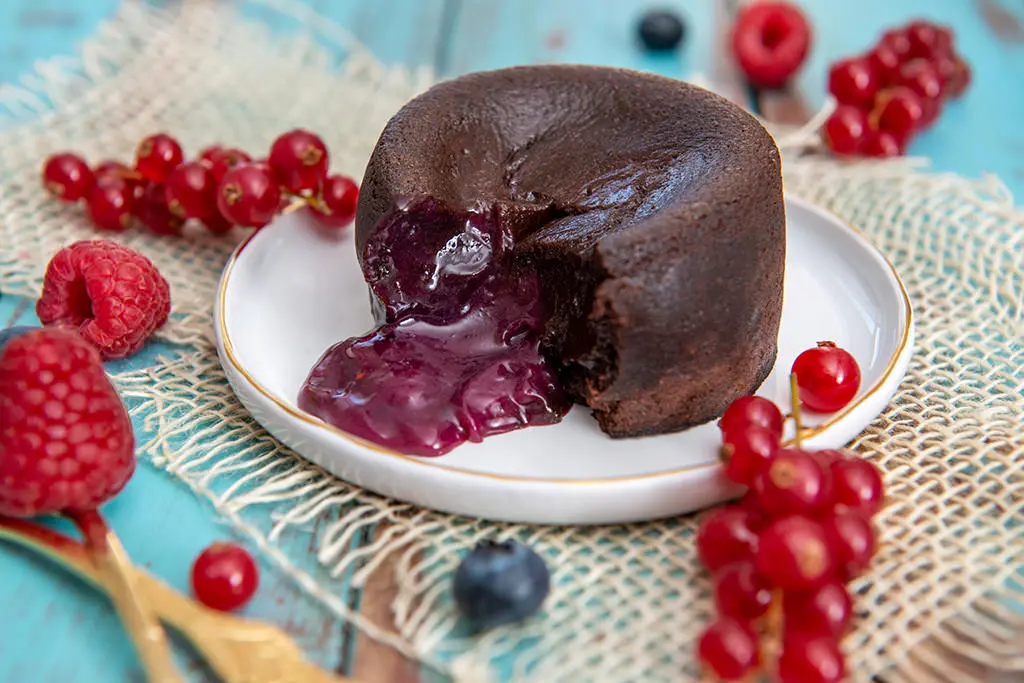
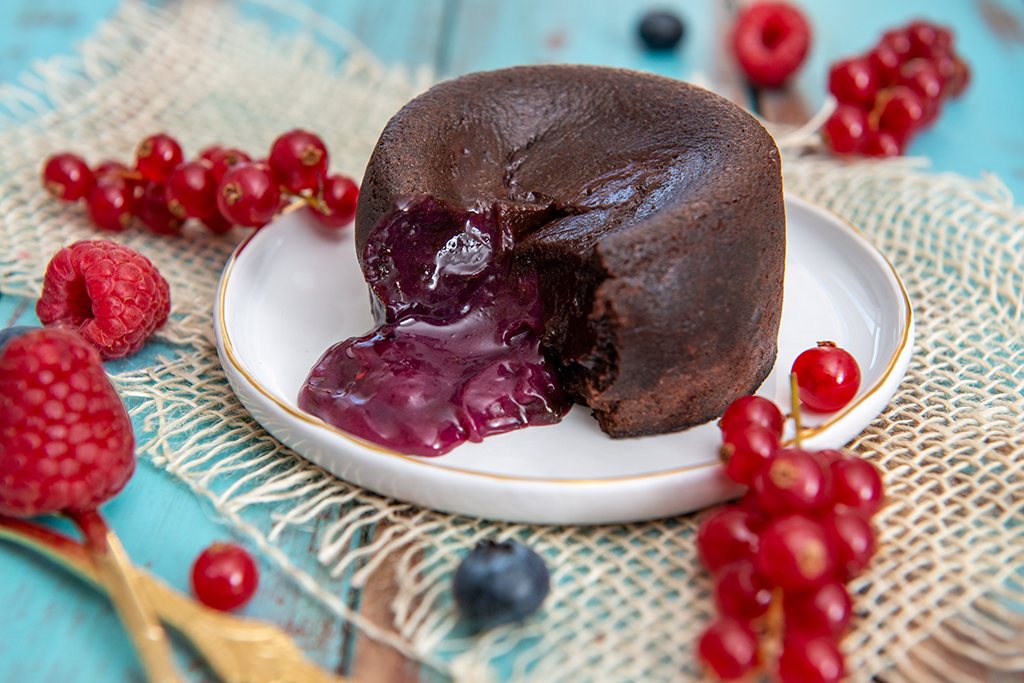
ui changes

diff --git a/css/style.css b/css/style.css
@@ -451,7 +451,7 @@ h4 {
 }
 
 .banner-section {
-    height: 500px;
+    height: 570px;
     margin-right: 0 !important;
     margin-left: 0 !important;
 }
@@ -461,8 +461,7 @@ h4 {
     height: 100% !important;
     object-fit: cover;
     padding: 0;
-    /* object-position: 17% 29%; */
-    object-view-box: inset(23% 0% 35% 0%);
+    object-view-box: inset(1% 1% 7% 0%);
 }
 
 figure {
@@ -925,6 +924,11 @@ ul.breadcrumb li a:hover {
 footer div a {
     color: #fff;
     text-decoration: none;
+}
+
+footer div a:hover {
+    color: #fff;
+    font-weight: bold;
 }
 
 /***************** Scroll reveal animation *********************/

diff --git a/produse/deserturi/monoportii/monoportii.html b/produse/deserturi/monoportii/monoportii.html
@@ -127,7 +127,7 @@
       <!-- Banner section -->
       <div class="row banner-section">
         <div id="banner-section-background"></div>
-        <img src="../../../Images/eisberg-gelato-lava-cake.png" alt="Tiramisu" class="banner-section-img">
+        <img src="../../../Images/zebratto-collage-ro.png" alt="zebratto" class="banner-section-img">
 
         <div class="banner-section-info-page">
           <!-- Breadcrumb -->
